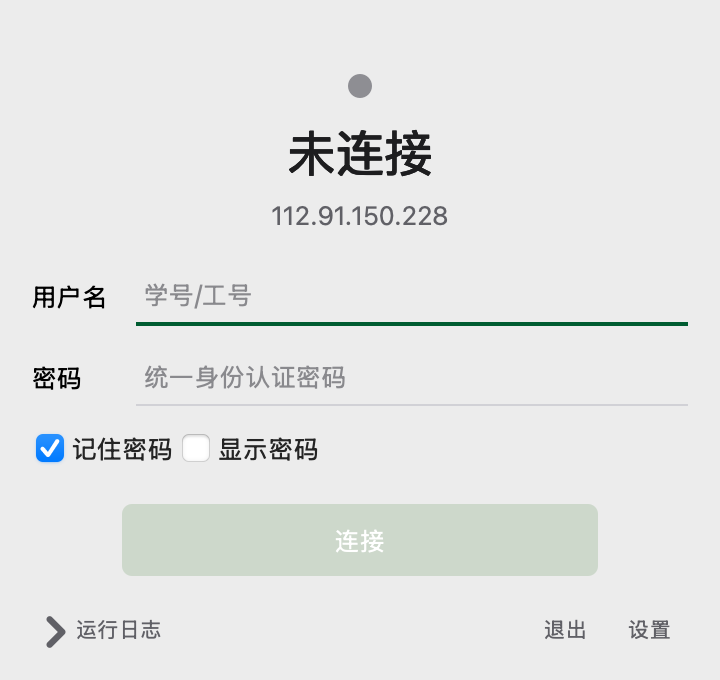
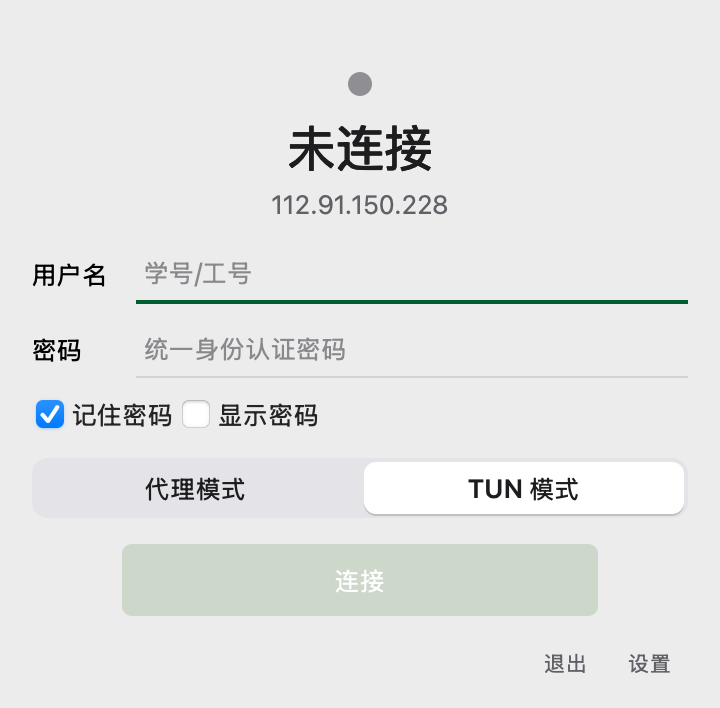
docs: README 同步当前版本——截图重拍（登录/连接/深色三态含导航与模式开关）、特性列表更新（TUN 默认、波形图、校内导航、休眠重连、钥匙串等）

diff --git a/README.en.md b/README.en.md
@@ -26,11 +26,16 @@ BITZH Connect is a GUI of [ZJU Connect](https://github.com/Mythologyli/zju-conne
 
 ## Features
 
+- **TUN mode (global routing) on by default** — all traffic, including raw TCP like SSH, goes through the VPN; one-tap switch between proxy and TUN on the main window
+- **Live dashboard** — connection duration, upload/download rates and a 60-second real-time graph
+- **Campus navigation** — 10 frequently used sites grouped by campus, folded away until needed
+- **Auto-reconnect** — backoff retries plus automatic recovery after system sleep/wake
+- **BIT branding** — emblem-green palette, calligraphy watermark, light/dark/system appearance
 - Fast and green compared to **EasyConnect**.
 - Built with PySide6, easy to build and maintain.
 - Multi-platform support, with native optimization for the **macOS** version.
+- Credentials live in the system keychain, never on disk in plaintext.
 - Works with other applications like Clash, Remote Desktop, and SSH. (See [Working with other applications](#working-with-other-applications))
-- After a successful connection, the dashboard provides quick links to the e-library (电子图书馆) and the unified portal (统一门户).
 - Supports custom server address/DNS/HTTP/SOCKS5 proxy port, and keep-alive settings. (If you need additional parameters, please submit an issue/PR)
 
 ## Installation
